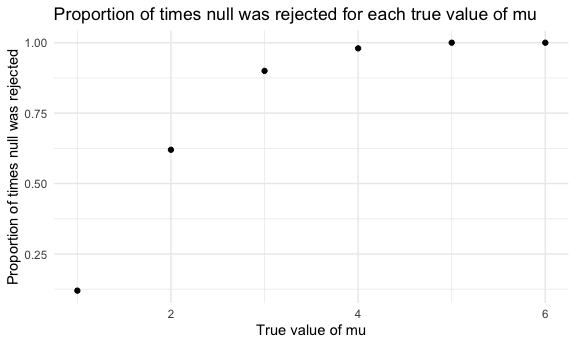
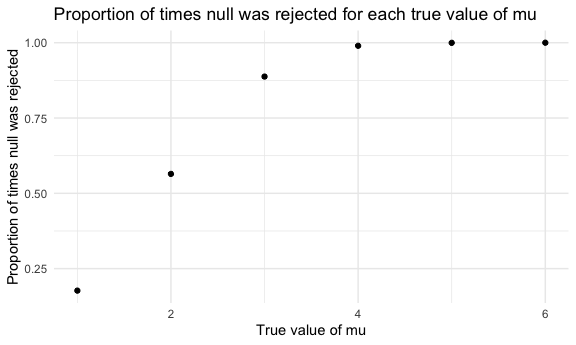
increased simulation to 5000

diff --git a/p8105_hw5_mll2209.md b/p8105_hw5_mll2209.md
@@ -447,9 +447,9 @@ Set mu = 0, generate 5000 datsets from the model made above, save
 mu\_hat and p-value for each dataset
 
 ``` r
-output = vector("list", 50)
+output = vector("list", 5000)
 
-for (i in 1:50) {
+for (i in 1:5000) {
   output[[i]] = sim_t_test(30)
 }
 sim_results = 
@@ -463,7 +463,7 @@ Repeat the above for mu = 1 through 6
 sim_results1 = 
   tibble(true_mu = c(1, 2, 3, 4, 5, 6)) %>%
   mutate(
-    output_lists = map(.x = true_mu, ~rerun(50, sim_t_test(mu = .x))),
+    output_lists = map(.x = true_mu, ~rerun(5000, sim_t_test(mu = .x))),
     estimate_dfs = map(output_lists, bind_rows)) %>%
   select(-output_lists) %>%
   unnest(estimate_dfs) %>%
